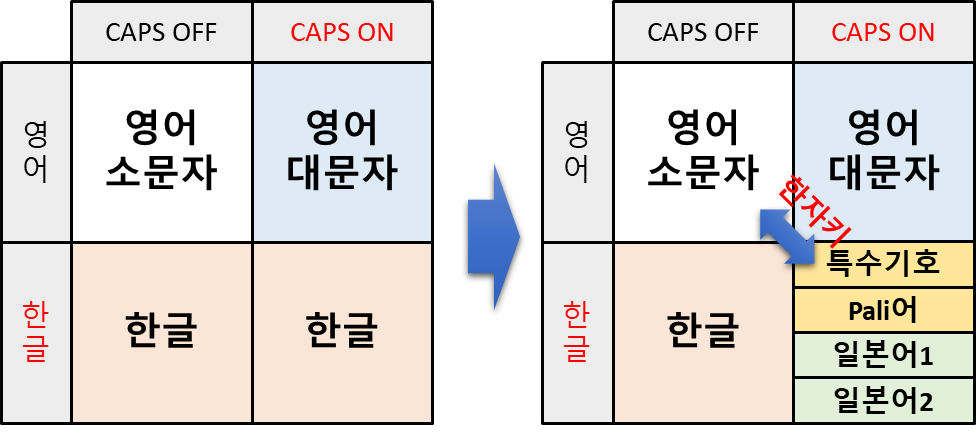
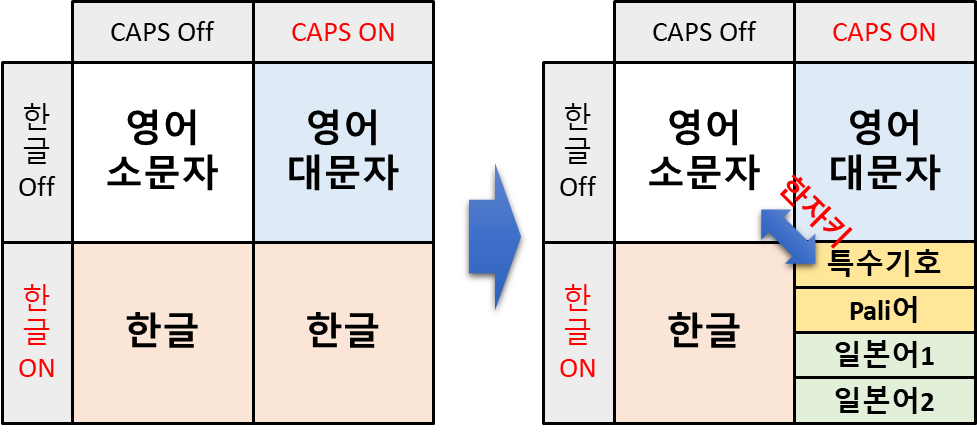
"문구 수정"

diff --git a/README.md b/README.md
@@ -163,7 +163,7 @@
 - **한영키** (RAlt): 영어 대문자 ↔ Pali
 - **CAPS** : 한글 ↔ Pali
 
-#### 📌 US+Pali Unicode IME 사용 (기존자판)
+#### 📌 US+Pali Unicode IME 사용 (기존 자판)
 
 * US+Pali(Unicode) IME 설치 : `https://www.tipitaka.org/keyboard.html`
 
@@ -179,7 +179,7 @@
 
 </div>
 
-#### 📌 Pali-Sanskrit Unicode IME 사용 (수정자판)
+#### 📌 Pali-Sanskrit Unicode IME 사용 (수정 자판)
 
 * Pali-Sanskrit(Unicode) 키보드 설치 : [palisans_unicode.zip](https://github.com/stonkim93/IMEPointer/palisans_unicode.zip)
 
@@ -427,6 +427,7 @@ dotnet publish -c Release -r win-x64 --self-contained true /p:PublishSingleFile=
 
 * **컨텍스트 동기화**: 창 전환 시에도 입력 상태를 정확히 유지
 
+
 ### 2️⃣ 해상도 및 배율에 반응하는 반응형 시각화 (Dynamic Scaling)
 
 * **마우스 포인터 크기 동기화**: 사용자가 윈도우 설정에서 포인터 크기를 변경하거나 모니터 DPI를 변경하면 즉시 감지
@@ -434,8 +435,6 @@ dotnet publish -c Release -r win-x64 --self-contained true /p:PublishSingleFile=
 * **고해상도 렌더링**: 커서가 커져도 이미지를 단순 확대하지 않고, 변경된 배율에 맞춰 **기하학적 형태와 외곽선 두께를 고해상도로 다시 계산**하여 항상 선명한 커서 제공
 
 * **작은 원 위치 동기화**: 엑셀/한글의 작은 원도 포인터 크기에 비례하여 정확히 이동
-
-💡 접근성 설정의 포인터 크기 변경에 따라 포인터 크기 배율을 정확히 계산하고, 커진 포인터를 고해상도로 다시 그리는데 어려움이 있다. 현재는 고해상도로 포인터를 다시 그리기는 하지만, 윈도우 기본 포인터가 커지는 것보다 새로 그린 포인터가 2배 정도 더 크다.
 
 
 ### 3️⃣ 문맥을 놓치지 않는 스마트 입력 감지 (Smart Context Tracking)
@@ -450,7 +449,6 @@ dotnet publish -c Release -r win-x64 --self-contained true /p:PublishSingleFile=
 
 * **특수앱 최적화**: Excel, 아래한글, 게임 등 각 앱의 특성에 맞춘 별도의 감지 로직
 
-💡 "문자 입력창", "키보드 배열창", "작업표시줄", "트레이 아이콘"의 입력상태를 동기화 했으나, 트레이 메뉴를 선택하기 위해 마우스로 아이콘을 클릭하는 순간, 트레이 아이콘이 문자 입력창의 입력모드에서 영어 소문자(Caps Off일때) 또는 영어 대문자(Caps On일때)의 입력상태로 변한다. 
 
 ### 4️⃣ 메모리 낭비 제로, 극한의 성능 최적화 (Zero GC & Resource Management)
 
@@ -470,18 +468,32 @@ dotnet publish -c Release -r win-x64 --self-contained true /p:PublishSingleFile=
 
 * **예외 처리**: 모든 주요 진입점에 try-catch 및 finally 블록으로 리소스 누수 방지
 
-## 📜 라이선스 (License)
-
-이 프로젝트는 **MIT License**에 따라 자유롭게 수정 및 배포할 수 있습니다.
-
-Made with ❤️ for multilingual writers, scholars, engineers, and Pāḷi researchers
 
 <br>
 
----
 
-💬 **문의 및 기여**: GitHub Issues를 통해 버그 리포트, 기능 제안, 풀 리퀘스트를 환영합니다!
+## ❤️ 기술적 난제 및 도움 요청
+
+💬 GitHub Issues를 통해 버그 리포트, 기능 제안, 풀 리퀘스트를 환영합니다!
+
+💡 아래의 기술적 어려움에 대해 도움을 요청합니다.
+
+- 디스플레이 배율 설정과 접근성 설정의 포인터 크기 변경에 따라 포인터 크기 배율을 정확히 계산하고, 커진 포인터를 고해상도로 다시 그리는데 어려움이 있다. 현재는 고해상도로 포인터를 다시 그리기는 하지만, 윈도우 기본 포인터가 커지는 것보다 새로 그린 포인터가 2배 정도 더 크다.
+
+- "문자 입력창", "키보드 배열창", "작업표시줄", "트레이 아이콘"의 입력상태를 동기화 했으나, 트레이 메뉴를 선택하기 위해 마우스로 아이콘을 클릭하는 순간, 트레이 아이콘이 문자 입력창의 입력모드에서 영어 소문자(Caps Off일때) 또는 영어 대문자(Caps On일때)의 입력상태로 변한다. 
+
+
+## 📜 라이선스 (License) 및 감사의 글
+
+- 이 프로젝트는 **MIT License**에 따라 자유롭게 수정 및 배포할 수 있습니다.
+
+- Coding & Debugging에는 Gemini 3.1 Pro (무료)의 도움을 많이 받았습니다.
+
+- 키보드 배열 검토에는 Claude Haiku 4.5 (무료)를 활용했습니다. 
+
+- Made with ❤️ for multilingual writers, scholars, engineers, and Pāḷi researchers
+
 
 <br>
 
-❤️🌍✨⚡🚀💡🎯🆕🖥️💻⌨️🔤🎨🧩🐛🔹📐📝✅🏆
+❤️🌍✨⚡🚀💡🎯🆕🖥️💻⌨️🔤🎨🧩🐛🔹📐📝✅🏆ℹ️❓